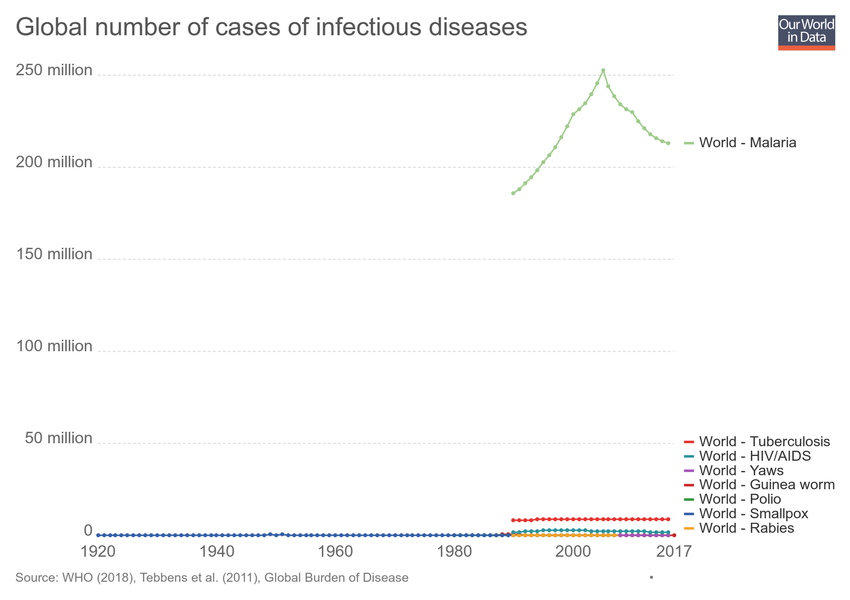
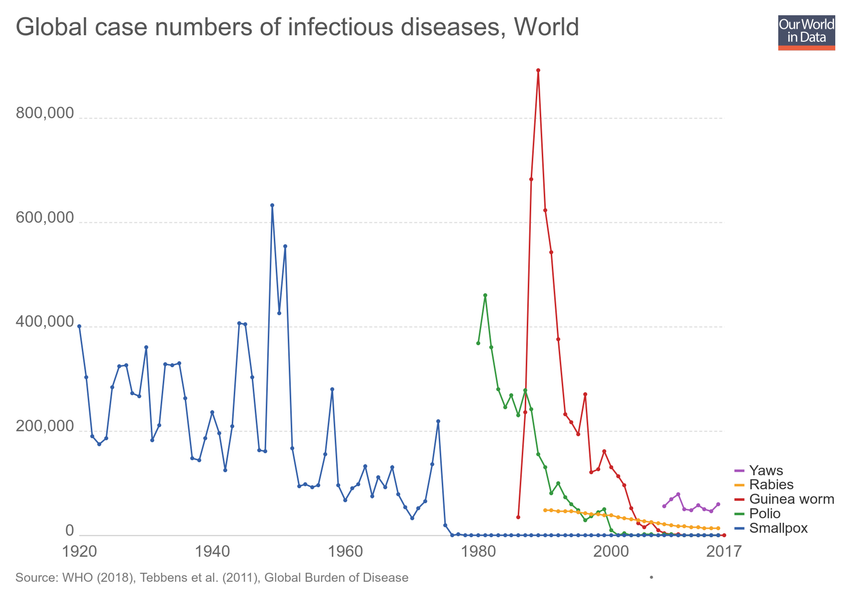
Updating chart global-number-of-cases-of-infectious-diseases

diff --git a/grapher/global-case-numbers-of-infectious-diseases.html b/grapher/global-case-numbers-of-infectious-diseases.html
@@ -1,4 +1,4 @@
-<!doctype html><html><head><meta name="viewport" content="width=device-width, initial-scale=1" /><title>Global number of cases of infectious diseases - Our World in Data</title><meta name="description" content="An interactive visualization from Our World in Data." /><link rel="canonical" href="https://ourworldindata.org/grapher/global-case-numbers-of-infectious-diseases" /><meta property="fb:app_id" content="1149943818390250" /><meta property="og:url" content="https://ourworldindata.org/grapher/global-case-numbers-of-infectious-diseases" /><meta property="og:title" content="Global number of cases of infectious diseases" /><meta property="og:description" content="An interactive visualization from Our World in Data." /><meta property="og:image" content="https://ourworldindata.org/grapher/exports/global-case-numbers-of-infectious-diseases.png?v=2" /><meta property="og:image:width" content="850" /><meta property="og:image:height" content="600" /><meta property="og:site_name" content="Our World in Data" /><meta name="twitter:card" content="summary_large_image" /><meta name="twitter:site" content="@OurWorldInData" /><meta name="twitter:creator" content="@OurWorldInData" /><meta name="twitter:title" content="Global number of cases of infectious diseases" /><meta name="twitter:description" content="An interactive visualization from Our World in Data." /><meta name="twitter:image" content="https://ourworldindata.org/grapher/exports/global-case-numbers-of-infectious-diseases.png?v=2" /><style>
+<!doctype html><html><head><meta name="viewport" content="width=device-width, initial-scale=1" /><title>Global case numbers of infectious diseases - Our World in Data</title><meta name="description" content="An interactive visualization from Our World in Data." /><link rel="canonical" href="https://ourworldindata.org/grapher/global-case-numbers-of-infectious-diseases" /><meta property="fb:app_id" content="1149943818390250" /><meta property="og:url" content="https://ourworldindata.org/grapher/global-case-numbers-of-infectious-diseases" /><meta property="og:title" content="Global case numbers of infectious diseases" /><meta property="og:description" content="An interactive visualization from Our World in Data." /><meta property="og:image" content="https://ourworldindata.org/grapher/exports/global-case-numbers-of-infectious-diseases.png?v=9" /><meta property="og:image:width" content="850" /><meta property="og:image:height" content="600" /><meta property="og:site_name" content="Our World in Data" /><meta name="twitter:card" content="summary_large_image" /><meta name="twitter:site" content="@OurWorldInData" /><meta name="twitter:creator" content="@OurWorldInData" /><meta name="twitter:title" content="Global case numbers of infectious diseases" /><meta name="twitter:description" content="An interactive visualization from Our World in Data." /><meta name="twitter:image" content="https://ourworldindata.org/grapher/exports/global-case-numbers-of-infectious-diseases.png?v=9" /><style>
         html, body {
             height: 100%;
             margin: 0;
@@ -20,8 +20,8 @@
         }
     </style><noscript><style>
                     figure { display: none !important; }
-                </style></noscript><link rel="stylesheet" href="https://ourworldindata.org/grapher/assets/commons.bundle.019a92548339820130b6.css" /><link rel="preload" href="/grapher/data/variables/67406+66553+65367+81557+85935+77504+80972+80952.json?v=2" as="fetch" crossorigin /></head><body class="singleChart"><figure data-grapher-src="/grapher/global-case-numbers-of-infectious-diseases"></figure><noscript id="fallback"><img src="/grapher/exports/global-case-numbers-of-infectious-diseases.svg" /><p>Interactive visualization requires JavaScript</p></noscript><script src="https://cdn.polyfill.io/v2/polyfill.min.js?features=es6,fetch"></script><script src="https://ourworldindata.org/grapher/assets/commons.bundle.019a92548339820130b6.js"></script><script src="https://ourworldindata.org/grapher/assets/charts.bundle.dcf65b68eddaba4c6a58.js"></script><script>
-        var jsonConfig = {"id":2557,"map":{"projection":"World","colorSchemeLabels":[],"colorSchemeValues":[],"colorSchemeMinValue":0,"customNumericColors":[],"customCategoryColors":{},"customCategoryLabels":{},"customHiddenCategories":{}},"tab":"chart","slug":"global-case-numbers-of-infectious-diseases","type":"LineChart","title":"Global number of cases of infectious diseases","xAxis":{"scaleType":"linear"},"yAxis":{"min":0,"scaleType":"linear","canChangeScaleType":true},"version":2,"hasMapTab":false,"stackMode":"absolute","dimensions":[{"display":{"name":"Guinea worm","unit":"cases","numDecimalPlaces":0},"property":"y","variableId":67406},{"display":{"name":"Polio","unit":"cases","numDecimalPlaces":0},"property":"y","variableId":66553},{"display":{"name":"Smallpox","unit":"cases","numDecimalPlaces":0},"property":"y","variableId":65367},{"display":{"name":"Rabies","unit":"cases","numDecimalPlaces":0},"property":"y","variableId":81557},{"display":{"name":"Yaws","unit":"cases","numDecimalPlaces":0},"property":"y","variableId":85935},{"display":{"name":"Malaria"},"property":"y","variableId":77504},{"display":{"name":"HIV/AIDS"},"property":"y","variableId":80972},{"display":{"name":"Tuberculosis"},"property":"y","variableId":80952}],"entityType":"","sourceDesc":"WHO (2018), Tebbens et al. (2011), Global Burden of Disease","hasChartTab":true,"isPublished":true,"selectedData":[{"index":0,"entityId":355},{"index":1,"entityId":355},{"index":2,"entityId":355},{"index":3,"entityId":355},{"index":4,"entityId":355},{"index":5,"entityId":355},{"index":6,"entityId":355},{"index":7,"entityId":355}],"addCountryMode":"add-country","hideTitleAnnotation":true};
+                </style></noscript><link rel="stylesheet" href="https://ourworldindata.org/grapher/assets/commons.bundle.019a92548339820130b6.css" /><link rel="preload" href="/grapher/data/variables/67406+66553+65367+81557+85935.json?v=9" as="fetch" crossorigin /></head><body class="singleChart"><figure data-grapher-src="/grapher/global-case-numbers-of-infectious-diseases"></figure><noscript id="fallback"><img src="/grapher/exports/global-case-numbers-of-infectious-diseases.svg" /><p>Interactive visualization requires JavaScript</p></noscript><script src="https://cdn.polyfill.io/v2/polyfill.min.js?features=es6,fetch"></script><script src="https://ourworldindata.org/grapher/assets/commons.bundle.019a92548339820130b6.js"></script><script src="https://ourworldindata.org/grapher/assets/charts.bundle.dcf65b68eddaba4c6a58.js"></script><script>
+        var jsonConfig = {"id":2065,"map":{"projection":"World","colorSchemeLabels":[],"colorSchemeValues":[],"colorSchemeMinValue":0,"customNumericColors":[],"customCategoryColors":{},"customCategoryLabels":{},"customHiddenCategories":{}},"tab":"chart","slug":"global-case-numbers-of-infectious-diseases","type":"LineChart","title":"Global case numbers of infectious diseases","xAxis":{"scaleType":"linear"},"yAxis":{"min":0,"scaleType":"linear"},"version":9,"hasMapTab":false,"stackMode":"absolute","dimensions":[{"display":{"name":"Guinea worm","unit":"cases","numDecimalPlaces":0},"property":"y","variableId":67406},{"display":{"name":"Polio","unit":"cases","numDecimalPlaces":0},"property":"y","variableId":66553},{"display":{"name":"Smallpox","unit":"cases","numDecimalPlaces":0},"property":"y","variableId":65367},{"display":{"name":"Rabies","unit":"cases","numDecimalPlaces":0},"property":"y","variableId":81557},{"display":{"name":"Yaws","unit":"cases","numDecimalPlaces":0},"property":"y","variableId":85935}],"entityType":"","sourceDesc":"WHO (2018), Tebbens et al. (2011), Global Burden of Disease","hasChartTab":true,"isPublished":true,"selectedData":[{"index":0,"entityId":355},{"index":1,"entityId":355},{"index":2,"entityId":355},{"index":3,"entityId":355},{"index":4,"entityId":355}],"addCountryMode":"change-country"};
         var figure = document.getElementsByTagName("figure")[0];
         try {
             window.App = {};

diff --git a/grapher/global-number-of-cases-of-infectious-diseases.html b/grapher/global-number-of-cases-of-infectious-diseases.html
@@ -1,0 +1,35 @@
+<!doctype html><html><head><meta name="viewport" content="width=device-width, initial-scale=1" /><title>Global number of cases of infectious diseases - Our World in Data</title><meta name="description" content="An interactive visualization from Our World in Data." /><link rel="canonical" href="https://ourworldindata.org/grapher/global-number-of-cases-of-infectious-diseases" /><meta property="fb:app_id" content="1149943818390250" /><meta property="og:url" content="https://ourworldindata.org/grapher/global-number-of-cases-of-infectious-diseases" /><meta property="og:title" content="Global number of cases of infectious diseases" /><meta property="og:description" content="An interactive visualization from Our World in Data." /><meta property="og:image" content="https://ourworldindata.org/grapher/exports/global-number-of-cases-of-infectious-diseases.png?v=3" /><meta property="og:image:width" content="850" /><meta property="og:image:height" content="600" /><meta property="og:site_name" content="Our World in Data" /><meta name="twitter:card" content="summary_large_image" /><meta name="twitter:site" content="@OurWorldInData" /><meta name="twitter:creator" content="@OurWorldInData" /><meta name="twitter:title" content="Global number of cases of infectious diseases" /><meta name="twitter:description" content="An interactive visualization from Our World in Data." /><meta name="twitter:image" content="https://ourworldindata.org/grapher/exports/global-number-of-cases-of-infectious-diseases.png?v=3" /><style>
+        html, body {
+            height: 100%;
+            margin: 0;
+        }
+
+        figure[data-grapher-src], #fallback {
+            display: flex;
+            align-items: center;
+            justify-content: center;
+            flex-direction: column;
+            margin: 0;
+            width: 100%;
+            height: 100%;
+        }
+
+        #fallback > img {
+            max-width: 100%;
+            border: 1px solid #ccc;
+        }
+    </style><noscript><style>
+                    figure { display: none !important; }
+                </style></noscript><link rel="stylesheet" href="https://ourworldindata.org/grapher/assets/commons.bundle.019a92548339820130b6.css" /><link rel="preload" href="/grapher/data/variables/67406+66553+65367+81557+85935+77504+80972+80952.json?v=3" as="fetch" crossorigin /></head><body class="singleChart"><figure data-grapher-src="/grapher/global-number-of-cases-of-infectious-diseases"></figure><noscript id="fallback"><img src="/grapher/exports/global-number-of-cases-of-infectious-diseases.svg" /><p>Interactive visualization requires JavaScript</p></noscript><script src="https://cdn.polyfill.io/v2/polyfill.min.js?features=es6,fetch"></script><script src="https://ourworldindata.org/grapher/assets/commons.bundle.019a92548339820130b6.js"></script><script src="https://ourworldindata.org/grapher/assets/charts.bundle.dcf65b68eddaba4c6a58.js"></script><script>
+        var jsonConfig = {"id":2557,"map":{"projection":"World","colorSchemeLabels":[],"colorSchemeValues":[],"colorSchemeMinValue":0,"customNumericColors":[],"customCategoryColors":{},"customCategoryLabels":{},"customHiddenCategories":{}},"tab":"chart","slug":"global-number-of-cases-of-infectious-diseases","type":"LineChart","title":"Global number of cases of infectious diseases","xAxis":{"scaleType":"linear"},"yAxis":{"min":0,"scaleType":"linear","canChangeScaleType":true},"version":3,"hasMapTab":false,"stackMode":"absolute","dimensions":[{"display":{"name":"Guinea worm","unit":"cases","numDecimalPlaces":0},"property":"y","variableId":67406},{"display":{"name":"Polio","unit":"cases","numDecimalPlaces":0},"property":"y","variableId":66553},{"display":{"name":"Smallpox","unit":"cases","numDecimalPlaces":0},"property":"y","variableId":65367},{"display":{"name":"Rabies","unit":"cases","numDecimalPlaces":0},"property":"y","variableId":81557},{"display":{"name":"Yaws","unit":"cases","numDecimalPlaces":0},"property":"y","variableId":85935},{"display":{"name":"Malaria"},"property":"y","variableId":77504},{"display":{"name":"HIV/AIDS"},"property":"y","variableId":80972},{"display":{"name":"Tuberculosis"},"property":"y","variableId":80952}],"entityType":"","sourceDesc":"WHO (2018), Tebbens et al. (2011), Global Burden of Disease","hasChartTab":true,"isPublished":true,"selectedData":[{"index":0,"entityId":355},{"index":1,"entityId":355},{"index":2,"entityId":355},{"index":3,"entityId":355},{"index":4,"entityId":355},{"index":5,"entityId":355},{"index":6,"entityId":355},{"index":7,"entityId":355}],"addCountryMode":"add-country","hideTitleAnnotation":true};
+        var figure = document.getElementsByTagName("figure")[0];
+        try {
+            window.App = {};
+            window.Global = { rootUrl: 'https://ourworldindata.org/grapher' };
+            ChartView.bootstrap({ jsonConfig: jsonConfig, containerNode: figure })
+        } catch (err) {
+            figure.innerHTML = "<img src=\"/grapher/exports/global-number-of-cases-of-infectious-diseases.svg\"/><p>Unable to load interactive visualization</p>";
+            figure.setAttribute("id", "fallback");
+            throw err;
+        }
+    </script></body></html>
